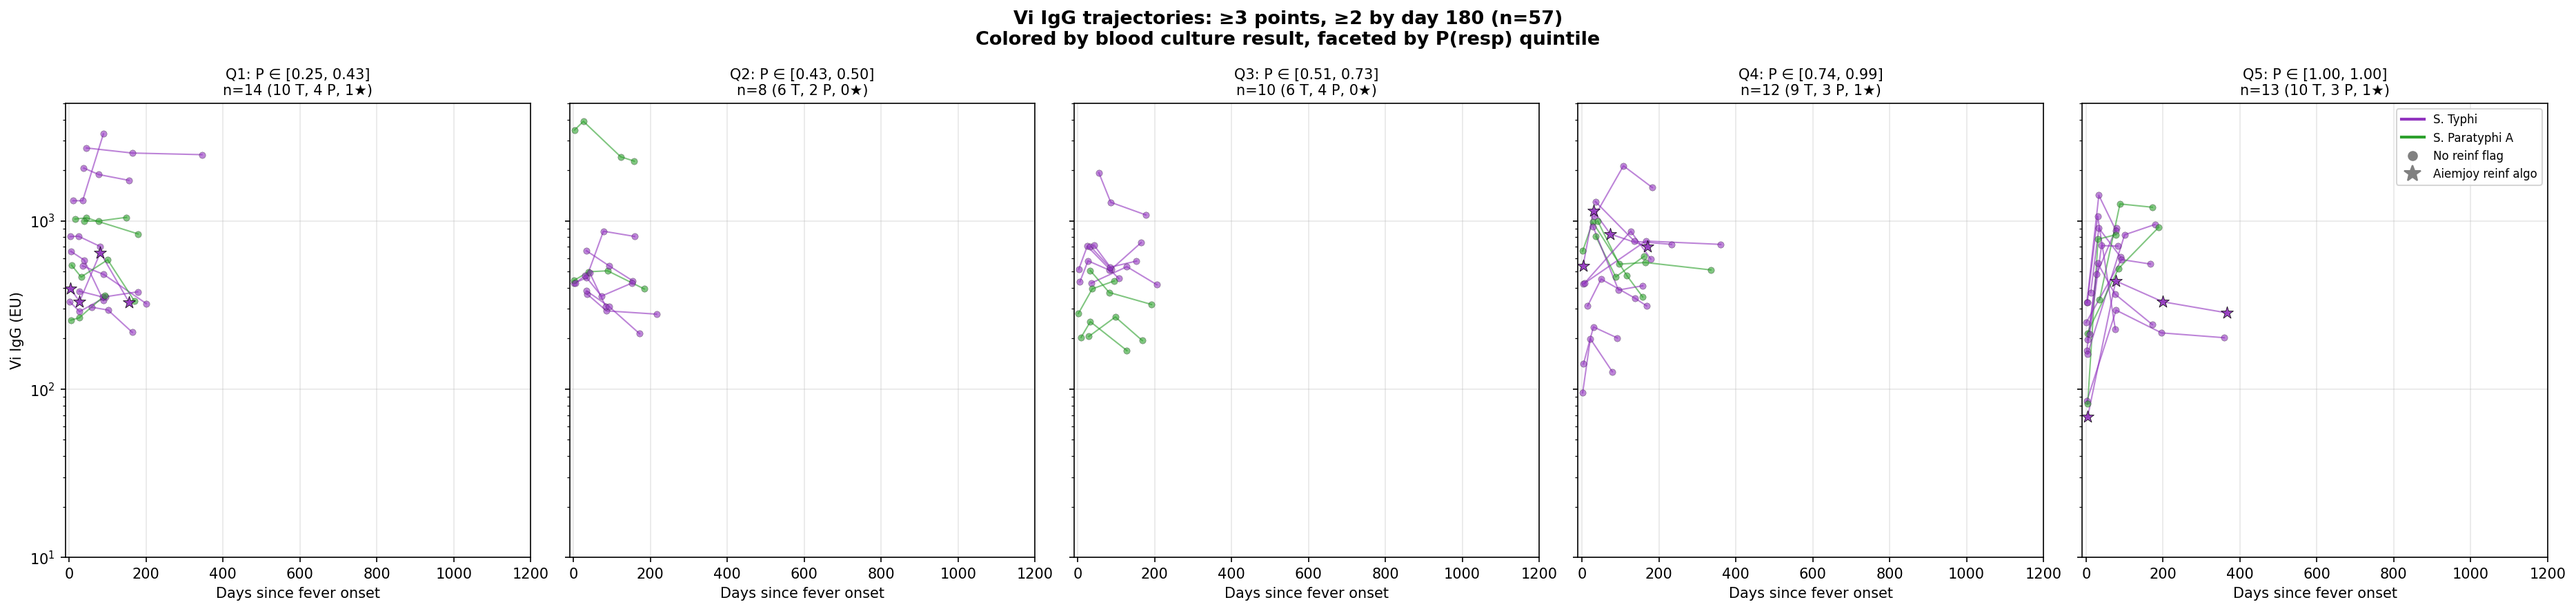
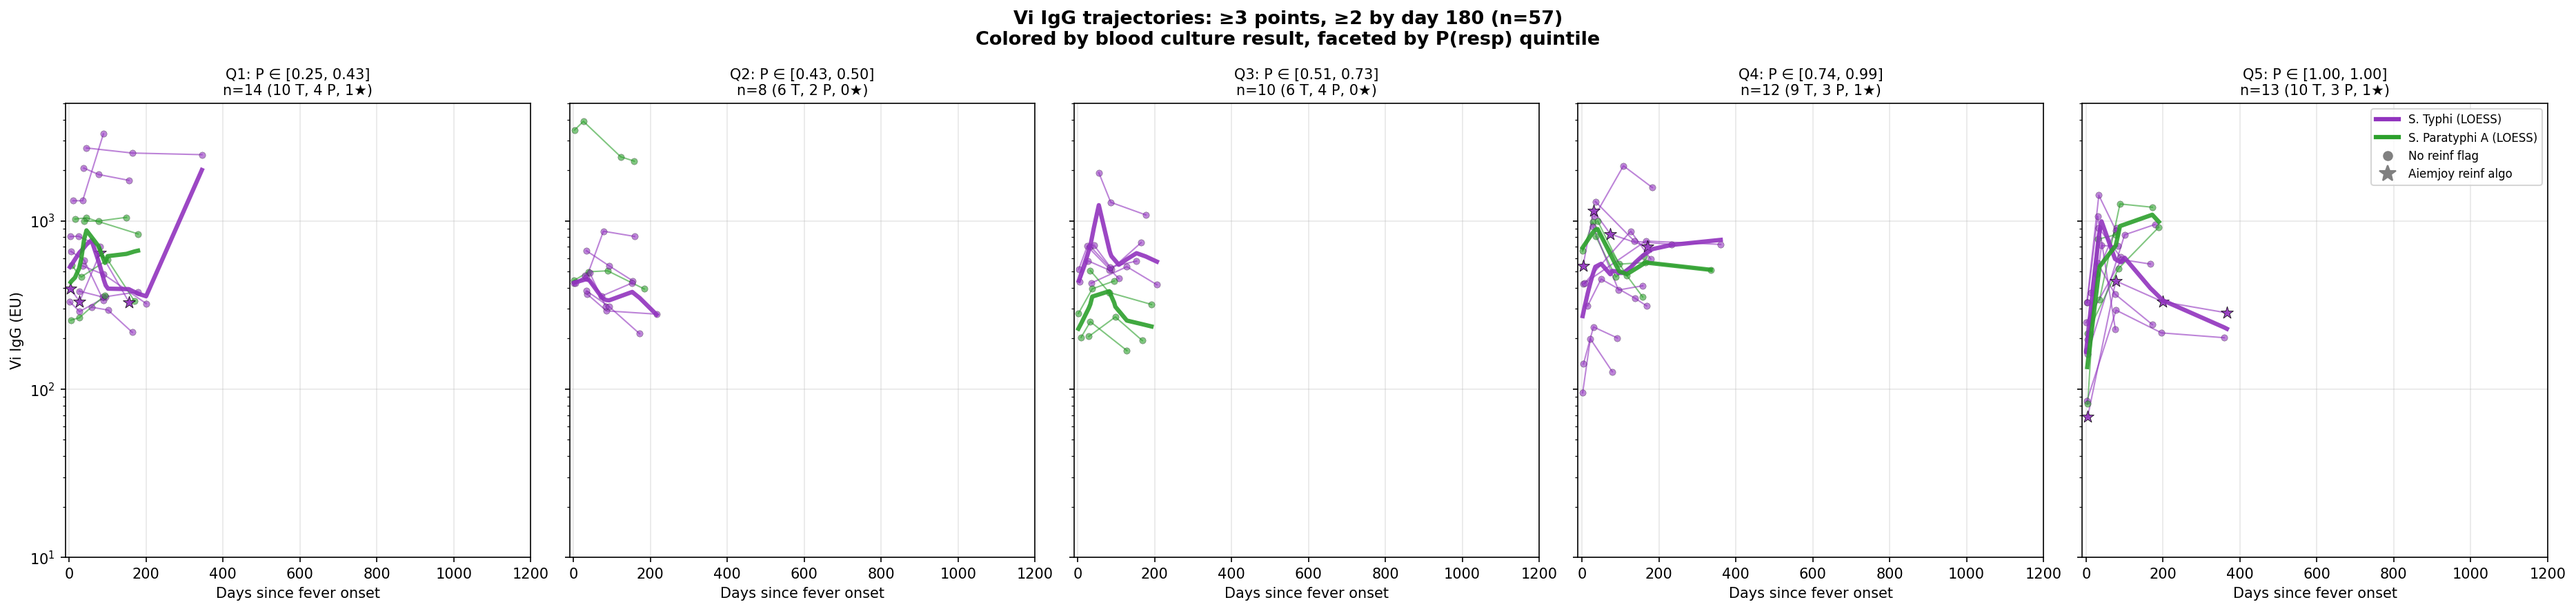
Add LOESS smooths per serovar to multipoint trajectory figure
LOESS (frac=0.6) on log10(EU) per serovar per quintile panel.
Typhi and Paratyphi trends track closely across all quintiles —
both show rise-then-decline in Q4-Q5 and decline in Q1-Q2.

diff --git a/metastudies/waning_after_infection/Aiemjoy2022_reanalysis/reanalysis/mixture_eda/10_trajectories_by_presp.py b/metastudies/waning_after_infection/Aiemjoy2022_reanalysis/reanalysis/mixture_eda/10_trajectories_by_presp.py
@@ -10,6 +10,7 @@ import pandas as pd
 import numpy as np
 import matplotlib.pyplot as plt
 from scipy import stats
+from statsmodels.nonparametric.smoothers_lowess import lowess
 from pathlib import Path
 import sys
 
@@ -324,6 +325,20 @@ def main():
                        alpha=0.9 if is_reinf else 0.6,
                        edgecolors="black", linewidths=0.4 if is_reinf else 0.2)
 
+        # LOESS smooth per serovar (on log10 scale, back-transformed)
+        for sv, sv_color in serovar_colors.items():
+            sv_ids = sub[sub["bldculres"] == sv]["index_id"]
+            if len(sv_ids) < 3:
+                continue
+            sv_long = long[long["index_id"].isin(sv_ids)].copy()
+            t_vals = sv_long["days_since_fever_onset"].values
+            y_vals = np.log10(np.maximum(sv_long["vi_igg_eu"].values, 1))
+            if len(t_vals) < 6:
+                continue
+            smooth = lowess(y_vals, t_vals, frac=0.6, return_sorted=True)
+            ax.plot(smooth[:, 0], 10**smooth[:, 1], color=sv_color,
+                    linewidth=3, alpha=0.9, zorder=10)
+
         ax.set_yscale("log"); ax.set_ylim(10, 5000); ax.set_xlim(-10, 1200)
         ax.grid(True, alpha=0.3)
         ax.set_xlabel("Days since fever onset")
@@ -334,8 +349,8 @@ def main():
             ax.set_ylabel("Vi IgG (EU)")
 
     legend_elements = [
-        Line2D([0], [0], color="#9133be", lw=2, label="S. Typhi"),
-        Line2D([0], [0], color="#2ca02c", lw=2, label="S. Paratyphi A"),
+        Line2D([0], [0], color="#9133be", lw=3, label="S. Typhi (LOESS)"),
+        Line2D([0], [0], color="#2ca02c", lw=3, label="S. Paratyphi A (LOESS)"),
         Line2D([0], [0], marker="o", color="gray", lw=0, markersize=6, label="No reinf flag"),
         Line2D([0], [0], marker="*", color="gray", lw=0, markersize=12, label="Aiemjoy reinf algo"),
     ]
